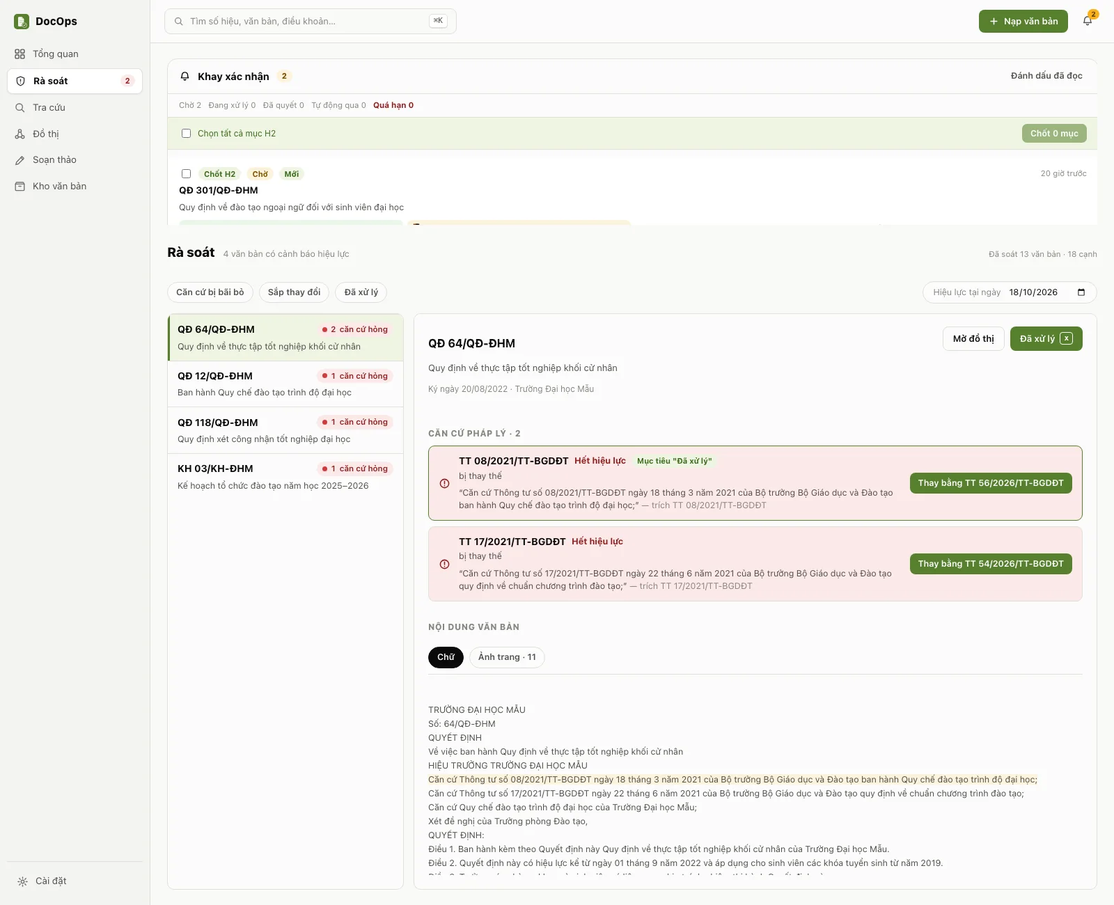
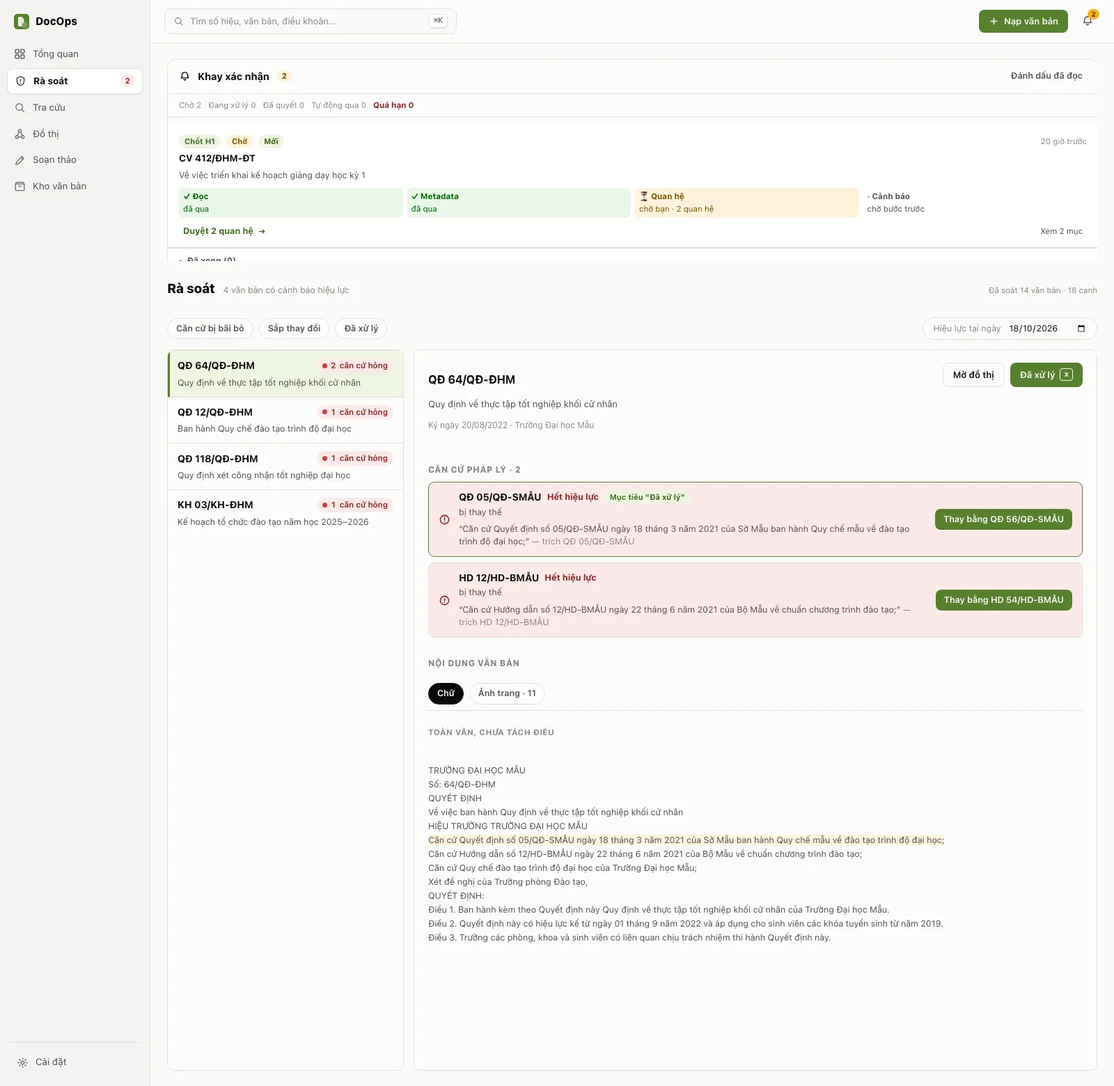
fix(huong-dan): ảnh dùng số hiệu bịa, không số hiệu thông tư thật; khay xác nhận hiện trọn một thẻ
Vòng sửa 1 của ảnh hướng dẫn (Ruling O4, phương án A):
- scripts/guide-capture: mọi căn cứ ngoài trường nay là văn bản bịa của "Sở Mẫu" (…-SMẪU) và "Bộ Mẫu" (…-BMẪU), giữ nguyên các quan hệ
  (trích, bị thay thế, hết hiệu lực) để màn vẫn cho thấy tính năng; câu trả lời AI, câu trích, bộ chữ Soạn thảo và Cài đặt đổi theo; không còn ngày
  hiệu lực của văn bản thật. Đã chụp lại cả 12 ảnh.
- content/guide vi/en: câu báo "Ảnh minh hoạ dùng dữ liệu mẫu của một trường giả định…" đứng trước ảnh đầu tiên
- tests/unit/guides.test.ts: mọi số hiệu trong dữ liệu mẫu phải kết thúc bằng mã cơ quan bịa (danh sách cho phép, 135 số hiệu), không còn tên cơ quan thật;
  câu báo đứng trước ảnh đầu; đã đo bằng đột biến (TT-BGDĐT, TT-BYT, QĐ-TTg, tên bộ thật, bỏ câu, đặt câu sau ảnh)
- ra-soat.webp: khay xác nhận là một thẻ H1 đủ trọn (dải khay bị trần 300 px của màn Rà soát nên hai thẻ chỉ ra mảnh cụt)
- capture-guide-images.mjs: đường dẫn tính từ vị trí script, ghi rõ ràng buộc với contracts/{ipc,docBody} và gateFixtures của desktop, múi giờ Asia/Ho_Chi_Minh và NOW là một thời điểm UTC

diff --git a/scripts/guide-capture/fake.ts b/scripts/guide-capture/fake.ts
@@ -13,14 +13,14 @@ export const state: { ingest: 'running' | 'idle'; agentOn: boolean; chat: 'empty
 
 // ── Warnings: which basis is dead, which documents lean on it ───────────────────────────────
 const BASES = {
-  'TT 08/2021/TT-BGDĐT': { replacedBy: 'TT 56/2026/TT-BGDĐT', reason: 'bị thay thế', fromDate: '2026-09-01' },
-  'TT 17/2021/TT-BGDĐT': { replacedBy: 'TT 54/2026/TT-BGDĐT', reason: 'bị thay thế', fromDate: '2026-09-01' },
+  'QĐ 05/QĐ-SMẪU': { replacedBy: 'QĐ 56/QĐ-SMẪU', reason: 'bị thay thế', fromDate: '2026-09-01' },
+  'HD 12/HD-BMẪU': { replacedBy: 'HD 54/HD-BMẪU', reason: 'bị thay thế', fromDate: '2026-09-01' },
 }
 const WARN: Record<string, string[]> = {
-  'QĐ 12/QĐ-ĐHM': ['TT 08/2021/TT-BGDĐT'],
-  'QĐ 64/QĐ-ĐHM': ['TT 08/2021/TT-BGDĐT', 'TT 17/2021/TT-BGDĐT'],
-  'QĐ 118/QĐ-ĐHM': ['TT 08/2021/TT-BGDĐT'],
-  'KH 03/KH-ĐHM': ['TT 17/2021/TT-BGDĐT'],
+  'QĐ 12/QĐ-ĐHM': ['QĐ 05/QĐ-SMẪU'],
+  'QĐ 64/QĐ-ĐHM': ['QĐ 05/QĐ-SMẪU', 'HD 12/HD-BMẪU'],
+  'QĐ 118/QĐ-ĐHM': ['QĐ 05/QĐ-SMẪU'],
+  'KH 03/KH-ĐHM': ['HD 12/HD-BMẪU'],
 }
 const basisTotals: Record<string, number> = { 'QĐ 12/QĐ-ĐHM': 3, 'QĐ 64/QĐ-ĐHM': 3, 'QĐ 118/QĐ-ĐHM': 2, 'KH 03/KH-ĐHM': 2 }
 
@@ -53,14 +53,14 @@ const DRAFT_TEXT = [
   'Điều 3. Quyết định này có hiệu lực kể từ ngày ký. Trưởng các phòng, khoa và các thành viên Hội đồng chịu trách nhiệm thi hành Quyết định này.',
 ].join('\n')
 const draft = {
-  id: 2, docType: 'decision', parentAgency: 'BỘ GIÁO DỤC VÀ ĐÀO TẠO', issuer: 'TRƯỜNG ĐẠI HỌC MẪU', docNumber: '', place: 'Hà Nội',
+  id: 2, docType: 'decision', parentAgency: 'BỘ MẪU', issuer: 'TRƯỜNG ĐẠI HỌC MẪU', docNumber: '', place: 'Hà Nội',
   signedDate: '2026-10-18', subject: 'thành lập Hội đồng xét công nhận tốt nghiệp đợt 2 năm 2026', issuingAuthority: 'HIỆU TRƯỞNG TRƯỜNG ĐẠI HỌC MẪU',
   addressee: null, body: docBodyOfPlainText(DRAFT_TEXT), recipients: 'Như Điều 3;\nLưu: VT, ĐT.',
   intent: 'Thành lập Hội đồng xét công nhận tốt nghiệp đợt 2 năm 2026, giao Phòng Đào tạo làm đầu mối.',
   signerAuthority: 'KT.', signerTitle: 'PHÓ HIỆU TRƯỞNG', signerName: '', signer2Title: '', signer2Name: '', updatedAt: iso(-90_000),
 }
 let ingestStartedAt = Date.now() - 48_000
-const norm = (t: string) => t.normalize('NFD').replace(/[\u0300-\u036f]/g, '').replace(/đ/g, 'd').toLowerCase()
+const norm = (t: string) => t.toLowerCase().normalize('NFD').replace(/[\u0300-\u036f]/g, '').replace(/đ/g, 'd')
 const hit = (snippet: string, word: string): Array<[number, number]> => {
   const out: Array<[number, number]> = []
   const s = norm(snippet), w = norm(word)
@@ -74,20 +74,20 @@ function passageOf(docNumber: string, snippet: string, word: string, page: numbe
 }
 function searchFor(q: string) {
   const n = norm(q)
-  if (n.includes('08/2021')) {
-    const s = 'Căn cứ Thông tư số 08/2021/TT-BGDĐT ngày 18 tháng 3 năm 2021 của Bộ trưởng Bộ Giáo dục và Đào tạo ban hành Quy chế đào tạo trình độ đại học;'
+  if (n.includes('05/qd-smau')) {
+    const s = 'Căn cứ Quyết định số 05/QĐ-SMẪU ngày 18 tháng 3 năm 2021 của Sở Mẫu ban hành Quy chế mẫu về đào tạo trình độ đại học;'
     return {
-      documents: [{ docNumber: 'TT 08/2021/TT-BGDĐT', subject: 'Ban hành Quy chế đào tạo trình độ đại học' }],
-      legalBases: [{ docNumber: 'TT 08/2021/TT-BGDĐT', citingCount: 3 }],
+      documents: [{ docNumber: 'QĐ 05/QĐ-SMẪU', subject: 'Quy chế mẫu về đào tạo trình độ đại học' }],
+      legalBases: [{ docNumber: 'QĐ 05/QĐ-SMẪU', citingCount: 3 }],
       articles: [
-        { docNumber: 'QĐ 12/QĐ-ĐHM', articleNo: 7, title: 'Tổ chức đào tạo theo tín chỉ', text: 'Việc tổ chức đào tạo theo hệ thống tín chỉ thực hiện theo quy định tại Thông tư số 08/2021/TT-BGDĐT và hướng dẫn của Nhà trường.' },
-        { docNumber: 'QĐ 118/QĐ-ĐHM', articleNo: 2, title: 'Cơ sở xét công nhận tốt nghiệp', text: 'Việc xét công nhận tốt nghiệp căn cứ Điều 31 của Thông tư số 08/2021/TT-BGDĐT.' },
+        { docNumber: 'QĐ 12/QĐ-ĐHM', articleNo: 7, title: 'Tổ chức đào tạo theo tín chỉ', text: 'Việc tổ chức đào tạo theo hệ thống tín chỉ thực hiện theo quy định tại Quyết định số 05/QĐ-SMẪU và hướng dẫn của Nhà trường.' },
+        { docNumber: 'QĐ 118/QĐ-ĐHM', articleNo: 2, title: 'Cơ sở xét công nhận tốt nghiệp', text: 'Việc xét công nhận tốt nghiệp căn cứ Điều 31 của Quyết định số 05/QĐ-SMẪU.' },
       ],
       elapsedMs: 7,
       passages: [
-        passageOf('QĐ 12/QĐ-ĐHM', s, '08/2021', 1, 'Căn cứ', 101),
-        passageOf('QĐ 64/QĐ-ĐHM', s, '08/2021', 1, 'Căn cứ', 202),
-        passageOf('QĐ 118/QĐ-ĐHM', s, '08/2021', 1, 'Căn cứ', 303),
+        passageOf('QĐ 12/QĐ-ĐHM', s, '05/QĐ-SMẪU', 1, 'Căn cứ', 101),
+        passageOf('QĐ 64/QĐ-ĐHM', s, '05/QĐ-SMẪU', 1, 'Căn cứ', 202),
+        passageOf('QĐ 118/QĐ-ĐHM', s, '05/QĐ-SMẪU', 1, 'Căn cứ', 303),
       ],
       passagesRelaxed: false, indexing: null,
     }
@@ -103,7 +103,7 @@ function searchFor(q: string) {
       legalBases: [],
       articles: [
         { docNumber: 'QĐ 118/QĐ-ĐHM', articleNo: 3, title: 'Điều kiện xét công nhận tốt nghiệp', text: s1 },
-        { docNumber: 'QĐ 12/QĐ-ĐHM', articleNo: 24, title: 'Điều kiện tốt nghiệp và cấp bằng', text: 'Sinh viên được xét tốt nghiệp khi đáp ứng các điều kiện của Quy chế này và quy định của Bộ Giáo dục và Đào tạo.' },
+        { docNumber: 'QĐ 12/QĐ-ĐHM', articleNo: 24, title: 'Điều kiện tốt nghiệp và cấp bằng', text: 'Sinh viên được xét tốt nghiệp khi đáp ứng các điều kiện của Quy chế này và quy định của Bộ Mẫu.' },
       ],
       elapsedMs: 9,
       passages: [
@@ -124,7 +124,7 @@ const turnBase = { attached: [], actions: [], notFound: [], droppedCitations: []
 const chatTurns = () => state.chat === 'empty' ? [] : [
   { ...turnBase, id: 1, seq: 1, kind: 'user', text: 'Quy định về điều kiện xét tốt nghiệp nằm ở văn bản nào, Điều mấy?', citations: [] },
   { ...turnBase, id: 2, seq: 2, kind: 'assistant',
-    text: 'Điều kiện xét công nhận tốt nghiệp nằm ở QĐ 118/QĐ-ĐHM, Điều 3 [ID:311]: sinh viên phải tích lũy đủ số tín chỉ của chương trình, đạt chuẩn đầu ra ngoại ngữ và không đang bị kỷ luật. Quy chế đào tạo QĐ 12/QĐ-ĐHM, Điều 24 [ID:124] quy định chung về tốt nghiệp và cấp bằng.\n\nCả hai văn bản đang dẫn Thông tư 08/2021/TT-BGDĐT, căn cứ này đã được thay bằng TT 56/2026/TT-BGDĐT, nên cần rà soát lại.',
+    text: 'Điều kiện xét công nhận tốt nghiệp nằm ở QĐ 118/QĐ-ĐHM, Điều 3 [ID:311]: sinh viên phải tích lũy đủ số tín chỉ của chương trình, đạt chuẩn đầu ra ngoại ngữ và không đang bị kỷ luật. Quy chế đào tạo QĐ 12/QĐ-ĐHM, Điều 24 [ID:124] quy định chung về tốt nghiệp và cấp bằng.\n\nCả hai văn bản đang dẫn Quyết định 05/QĐ-SMẪU, căn cứ này đã được thay bằng QĐ 56/QĐ-SMẪU, nên cần rà soát lại.',
     citations: [
       { docNumber: 'QĐ 118/QĐ-ĐHM', articleNo: 3, passageId: 311, page: 2, label: 'QĐ 118/QĐ-ĐHM' },
       { docNumber: 'QĐ 12/QĐ-ĐHM', articleNo: 24, passageId: 124, page: 11, label: 'QĐ 12/QĐ-ĐHM' },
@@ -195,12 +195,12 @@ export const handlers: Record<string, Handler> = {
       awaitingConfirmation: 2, events, risks,
       byYear: Object.entries(byYear).map(([year, count]) => ({ year: Number(year), count })).sort((a, b) => a.year - b.year),
       byType: Object.entries(byType).map(([docType, count]) => ({ docType, count })).sort((a, b) => b.count - a.count),
-      articleCount: 164, edgeCount: EDGES.length, reviewedCount: 6, unanalyzedCount: 2,
-      inspected: { documents: DOCS.length - 2, edges: EDGES.length }, lastAnalyzedAt: iso(-3 * 3600_000),
+      articleCount: 164, edgeCount: EDGES.length, reviewedCount: 6, unanalyzedCount: 1,
+      inspected: { documents: DOCS.length - 1, edges: EDGES.length }, lastAnalyzedAt: iso(-3 * 3600_000),
     })
   },
 
-  getUnitInfo: () => ok({ parentAgency: 'BỘ GIÁO DỤC VÀ ĐÀO TẠO', issuer: 'TRƯỜNG ĐẠI HỌC MẪU', place: 'Hà Nội', signerAuthority: 'KT.', signerTitle: 'PHÓ HIỆU TRƯỞNG', signerName: '' }),
+  getUnitInfo: () => ok({ parentAgency: 'BỘ MẪU', issuer: 'TRƯỜNG ĐẠI HỌC MẪU', place: 'Hà Nội', signerAuthority: 'KT.', signerTitle: 'PHÓ HIỆU TRƯỞNG', signerName: '' }),
   getKeyDevices: () => ok({
     status: 'active', unitName: UNIT, devicesInUse: 3, maxDevices: 10,
     devices: [
@@ -234,13 +234,16 @@ export const handlers: Record<string, Handler> = {
       }))
       return { docNumber: n, subject: d.subject, signedOn: d.signedOn, issuer: d.issuer, unhandledCount: warnings.length, warnings }
     })
-    return ok({ rows, inspected: { documents: DOCS.length - 2, edges: EDGES.length } })
+    return ok({ rows, inspected: { documents: DOCS.length - 1, edges: EDGES.length } })
   },
+  // ONE card with two relations to approve (H1): the review band has a ceiling (20% of the column, 300 px at most) and a card of an H2/H4
+  // document plus the H2 "select all" bar does not fit under it, so a second card would only ever show as a clipped sliver.
   getInboxByDocument: () => ok(inboxByDocumentReply([
-    journeyDocument({ documentId: 'd-qd301', docNumberLabel: 'QĐ 301/QĐ-ĐHM', subject: DOCS.find((d) => d.id === 'd-qd301')!.subject,
-      items: [inboxItem({ subjectId: 'd-qd301', gateCode: 'H2', summary: 'Duyệt vào kho — QĐ 301/QĐ-ĐHM', fieldsToDecide: 3, documentId: 'd-qd301', createdAt: iso(-20 * 3600_000) })] }),
     journeyDocument({ documentId: 'd-cv412', docNumberLabel: 'CV 412/ĐHM-ĐT', subject: DOCS.find((d) => d.id === 'd-cv412')!.subject,
-      items: [inboxItem({ subjectId: 'd-cv412', gateCode: 'H2', summary: 'Duyệt vào kho — CV 412/ĐHM-ĐT', fieldsToDecide: 4, documentId: 'd-cv412', createdAt: iso(-20 * 3600_000) })] }),
+      items: [
+        inboxItem({ subjectId: 'qh:d-cv412:0', gateCode: 'H1', summary: 'Quan hệ — CV 412/ĐHM-ĐT', fieldsToDecide: 1, documentId: 'd-cv412', createdAt: iso(-20 * 3600_000) }),
+        inboxItem({ subjectId: 'qh:d-cv412:1', gateCode: 'H1', summary: 'Quan hệ — CV 412/ĐHM-ĐT', fieldsToDecide: 1, documentId: 'd-cv412', createdAt: iso(-20 * 3600_000) }),
+      ] }),
   ], { warnings: [] }).data),
   getDocumentContent: (p: { docNumber?: string; documentId?: string }) => {
     const d = DOCS.find((x) => x.docNumber === p.docNumber || x.id === p.documentId)

diff --git a/scripts/guide-capture/world.ts b/scripts/guide-capture/world.ts
@@ -31,30 +31,30 @@ export const DOCS: Doc[] = [
   { id: 'd-hd09', docNumber: 'HD 09/HD-ĐHM', subject: 'Hướng dẫn đánh giá kết quả rèn luyện của sinh viên', docType: 'HD', signedOn: '2024-09-05', effectiveFrom: '2024-09-05', issuer: U, pages: 6, status: 'complete', ingestedAt: '2026-10-14T14:12:00', outEdges: 1, inEdges: 0, readMode: 'lop_chu', relationsState: 'extracted' },
   { id: 'd-kh03', docNumber: 'KH 03/KH-ĐHM', subject: 'Kế hoạch tổ chức đào tạo năm học 2025–2026', docType: 'KH', signedOn: '2025-08-12', effectiveFrom: '2025-08-12', issuer: U, pages: 14, status: 'complete', ingestedAt: '2026-10-15T10:30:00', outEdges: 2, inEdges: 0, readMode: 'lop_chu', relationsState: 'extracted' },
   { id: 'd-tb88', docNumber: 'TB 88/TB-ĐHM', subject: 'Thông báo lịch đăng ký học phần học kỳ 1 năm học 2026–2027', docType: 'TB', signedOn: '2026-08-04', effectiveFrom: '2026-08-04', issuer: U, pages: 2, status: 'complete', ingestedAt: '2026-10-15T10:41:00', outEdges: 1, inEdges: 0, readMode: 'lop_chu', relationsState: 'extracted' },
-  { id: 'd-qd301', docNumber: 'QĐ 301/QĐ-ĐHM', subject: 'Quy định về đào tạo ngoại ngữ đối với sinh viên đại học', docType: 'QĐ', signedOn: '2026-09-22', effectiveFrom: '2026-10-01', issuer: U, pages: 7, status: 'awaiting_confirmation', ingestedAt: '2026-10-17T15:20:00', outEdges: 0, inEdges: 0, readMode: 'ocr', relationsState: 'pending', awaitingGate: 'H2' },
-  { id: 'd-cv412', docNumber: 'CV 412/ĐHM-ĐT', subject: 'Về việc triển khai kế hoạch giảng dạy học kỳ 1', docType: 'CV', signedOn: '2026-09-08', effectiveFrom: '2026-09-08', issuer: U, pages: 3, status: 'awaiting_confirmation', ingestedAt: '2026-10-17T15:26:00', outEdges: 0, inEdges: 0, readMode: 'ocr', relationsState: 'pending', awaitingGate: 'H2' },
-  // National documents that are IN the store.
-  { id: 'd-tt08', docNumber: 'TT 08/2021/TT-BGDĐT', subject: 'Ban hành Quy chế đào tạo trình độ đại học', docType: 'TT', signedOn: '2021-03-18', effectiveFrom: '2021-05-05', issuer: 'Bộ Giáo dục và Đào tạo', pages: 21, status: 'complete', ingestedAt: '2026-10-11T16:02:00', outEdges: 0, inEdges: 4, readMode: 'lop_chu', relationsState: 'extracted' },
-  { id: 'd-tt17', docNumber: 'TT 17/2021/TT-BGDĐT', subject: 'Quy định về chuẩn chương trình đào tạo; xây dựng, thẩm định và ban hành chương trình đào tạo các trình độ của giáo dục đại học', docType: 'TT', signedOn: '2021-06-22', effectiveFrom: '2021-08-06', issuer: 'Bộ Giáo dục và Đào tạo', pages: 28, status: 'complete', ingestedAt: '2026-10-11T16:10:00', outEdges: 0, inEdges: 2, readMode: 'lop_chu', relationsState: 'extracted' },
-  { id: 'd-nd99', docNumber: 'NĐ 99/2019/NĐ-CP', subject: 'Quy định chi tiết và hướng dẫn thi hành một số điều của Luật sửa đổi, bổ sung một số điều của Luật Giáo dục đại học', docType: 'NĐ', signedOn: '2019-12-30', effectiveFrom: '2019-12-30', issuer: 'Chính phủ', pages: 32, status: 'complete', ingestedAt: '2026-10-11T16:20:00', outEdges: 0, inEdges: 3, readMode: 'lop_chu', relationsState: 'extracted' },
-  { id: 'd-nd30', docNumber: 'NĐ 30/2020/NĐ-CP', subject: 'Về công tác văn thư', docType: 'NĐ', signedOn: '2020-03-05', effectiveFrom: '2020-03-05', issuer: 'Chính phủ', pages: 19, status: 'complete', ingestedAt: '2026-10-11T16:31:00', outEdges: 0, inEdges: 2, readMode: 'lop_chu', relationsState: 'extracted' },
+  { id: 'd-qd301', docNumber: 'QĐ 301/QĐ-ĐHM', subject: 'Quy định về đào tạo ngoại ngữ đối với sinh viên đại học', docType: 'QĐ', signedOn: '2026-09-22', effectiveFrom: '2026-10-01', issuer: U, pages: 7, status: 'complete', ingestedAt: '2026-10-17T15:20:00', outEdges: 0, inEdges: 0, readMode: 'ocr', relationsState: 'extracted' },
+  { id: 'd-cv412', docNumber: 'CV 412/ĐHM-ĐT', subject: 'Về việc triển khai kế hoạch giảng dạy học kỳ 1', docType: 'CV', signedOn: '2026-09-08', effectiveFrom: '2026-09-08', issuer: U, pages: 3, status: 'awaiting_confirmation', ingestedAt: '2026-10-17T15:26:00', outEdges: 0, inEdges: 0, readMode: 'ocr', relationsState: 'pending' },
+  // External bases that are IN the store. INVENTED: a made-up "Sở Mẫu" and "Bộ Mẫu" issue them, with numbers no real body uses.
+  { id: 'd-qd05', docNumber: 'QĐ 05/QĐ-SMẪU', subject: 'Quy chế mẫu về đào tạo trình độ đại học', docType: 'QĐ', signedOn: '2021-03-18', effectiveFrom: '2021-05-05', issuer: 'Sở Mẫu', pages: 21, status: 'complete', ingestedAt: '2026-10-11T16:02:00', outEdges: 0, inEdges: 4, readMode: 'lop_chu', relationsState: 'extracted' },
+  { id: 'd-hd12', docNumber: 'HD 12/HD-BMẪU', subject: 'Hướng dẫn mẫu về chuẩn chương trình đào tạo', docType: 'HD', signedOn: '2021-06-22', effectiveFrom: '2021-08-06', issuer: 'Bộ Mẫu', pages: 28, status: 'complete', ingestedAt: '2026-10-11T16:10:00', outEdges: 0, inEdges: 2, readMode: 'lop_chu', relationsState: 'extracted' },
+  { id: 'd-qd09', docNumber: 'QĐ 09/QĐ-SMẪU', subject: 'Quy định mẫu về tổ chức đào tạo trình độ đại học', docType: 'QĐ', signedOn: '2019-12-30', effectiveFrom: '2019-12-30', issuer: 'Sở Mẫu', pages: 32, status: 'complete', ingestedAt: '2026-10-11T16:20:00', outEdges: 0, inEdges: 3, readMode: 'lop_chu', relationsState: 'extracted' },
+  { id: 'd-hd03', docNumber: 'HD 03/HD-BMẪU', subject: 'Hướng dẫn mẫu về công tác văn thư', docType: 'HD', signedOn: '2020-03-05', effectiveFrom: '2020-03-05', issuer: 'Bộ Mẫu', pages: 19, status: 'complete', ingestedAt: '2026-10-11T16:31:00', outEdges: 0, inEdges: 2, readMode: 'lop_chu', relationsState: 'extracted' },
 ]
 
 /** The citation sentences the "Căn cứ" lines of the own documents carry (the edges' `source_sentence`). */
 export const CITES: Record<string, Array<{ to: string; sentence: string }>> = {
   'QĐ 12/QĐ-ĐHM': [
-    { to: 'TT 08/2021/TT-BGDĐT', sentence: 'Căn cứ Thông tư số 08/2021/TT-BGDĐT ngày 18 tháng 3 năm 2021 của Bộ trưởng Bộ Giáo dục và Đào tạo ban hành Quy chế đào tạo trình độ đại học;' },
-    { to: 'NĐ 99/2019/NĐ-CP', sentence: 'Căn cứ Nghị định số 99/2019/NĐ-CP ngày 30 tháng 12 năm 2019 của Chính phủ quy định chi tiết và hướng dẫn thi hành một số điều của Luật sửa đổi, bổ sung một số điều của Luật Giáo dục đại học;' },
+    { to: 'QĐ 05/QĐ-SMẪU', sentence: 'Căn cứ Quyết định số 05/QĐ-SMẪU ngày 18 tháng 3 năm 2021 của Sở Mẫu ban hành Quy chế mẫu về đào tạo trình độ đại học;' },
+    { to: 'QĐ 09/QĐ-SMẪU', sentence: 'Căn cứ Quyết định số 09/QĐ-SMẪU ngày 30 tháng 12 năm 2019 của Sở Mẫu về tổ chức đào tạo trình độ đại học;' },
   ],
   'QĐ 64/QĐ-ĐHM': [
-    { to: 'TT 08/2021/TT-BGDĐT', sentence: 'Căn cứ Thông tư số 08/2021/TT-BGDĐT ngày 18 tháng 3 năm 2021 của Bộ trưởng Bộ Giáo dục và Đào tạo ban hành Quy chế đào tạo trình độ đại học;' },
-    { to: 'TT 17/2021/TT-BGDĐT', sentence: 'Căn cứ Thông tư số 17/2021/TT-BGDĐT ngày 22 tháng 6 năm 2021 của Bộ trưởng Bộ Giáo dục và Đào tạo quy định về chuẩn chương trình đào tạo;' },
+    { to: 'QĐ 05/QĐ-SMẪU', sentence: 'Căn cứ Quyết định số 05/QĐ-SMẪU ngày 18 tháng 3 năm 2021 của Sở Mẫu ban hành Quy chế mẫu về đào tạo trình độ đại học;' },
+    { to: 'HD 12/HD-BMẪU', sentence: 'Căn cứ Hướng dẫn số 12/HD-BMẪU ngày 22 tháng 6 năm 2021 của Bộ Mẫu về chuẩn chương trình đào tạo;' },
   ],
   'QĐ 118/QĐ-ĐHM': [
-    { to: 'TT 08/2021/TT-BGDĐT', sentence: 'Căn cứ Thông tư số 08/2021/TT-BGDĐT ngày 18 tháng 3 năm 2021 của Bộ trưởng Bộ Giáo dục và Đào tạo ban hành Quy chế đào tạo trình độ đại học;' },
+    { to: 'QĐ 05/QĐ-SMẪU', sentence: 'Căn cứ Quyết định số 05/QĐ-SMẪU ngày 18 tháng 3 năm 2021 của Sở Mẫu ban hành Quy chế mẫu về đào tạo trình độ đại học;' },
   ],
   'KH 03/KH-ĐHM': [
-    { to: 'TT 17/2021/TT-BGDĐT', sentence: 'Căn cứ Thông tư số 17/2021/TT-BGDĐT ngày 22 tháng 6 năm 2021 của Bộ trưởng Bộ Giáo dục và Đào tạo quy định về chuẩn chương trình đào tạo;' },
+    { to: 'HD 12/HD-BMẪU', sentence: 'Căn cứ Hướng dẫn số 12/HD-BMẪU ngày 22 tháng 6 năm 2021 của Bộ Mẫu về chuẩn chương trình đào tạo;' },
   ],
 }
 
@@ -77,21 +77,21 @@ export const BODY: Record<string, string> = {
 
 /** Citation edges (from cites to). `to` may be a document that is NOT in the store. */
 export const EDGES: Array<[string, string]> = [
-  ['QĐ 12/QĐ-ĐHM', 'TT 08/2021/TT-BGDĐT'], ['QĐ 12/QĐ-ĐHM', 'NĐ 99/2019/NĐ-CP'], ['QĐ 12/QĐ-ĐHM', 'TT 17/2021/TT-BGDĐT'],
-  ['QĐ 64/QĐ-ĐHM', 'TT 08/2021/TT-BGDĐT'], ['QĐ 64/QĐ-ĐHM', 'TT 17/2021/TT-BGDĐT'], ['QĐ 64/QĐ-ĐHM', 'QĐ 12/QĐ-ĐHM'],
-  ['QĐ 118/QĐ-ĐHM', 'TT 08/2021/TT-BGDĐT'], ['QĐ 118/QĐ-ĐHM', 'QĐ 12/QĐ-ĐHM'],
-  ['QĐ 205/QĐ-ĐHM', 'NĐ 30/2020/NĐ-CP'], ['QĐ 205/QĐ-ĐHM', 'Luật 01/2011/QH13'],
-  ['QĐ 41/QĐ-ĐHM', 'NĐ 99/2019/NĐ-CP'], ['QĐ 41/QĐ-ĐHM', 'Luật 34/2018/QH14'],
-  ['QĐ 77/QĐ-ĐHM', 'NĐ 81/2021/NĐ-CP'], ['QĐ 77/QĐ-ĐHM', 'QĐ 12/QĐ-ĐHM'],
+  ['QĐ 12/QĐ-ĐHM', 'QĐ 05/QĐ-SMẪU'], ['QĐ 12/QĐ-ĐHM', 'QĐ 09/QĐ-SMẪU'], ['QĐ 12/QĐ-ĐHM', 'HD 12/HD-BMẪU'],
+  ['QĐ 64/QĐ-ĐHM', 'QĐ 05/QĐ-SMẪU'], ['QĐ 64/QĐ-ĐHM', 'HD 12/HD-BMẪU'], ['QĐ 64/QĐ-ĐHM', 'QĐ 12/QĐ-ĐHM'],
+  ['QĐ 118/QĐ-ĐHM', 'QĐ 05/QĐ-SMẪU'], ['QĐ 118/QĐ-ĐHM', 'QĐ 12/QĐ-ĐHM'],
+  ['QĐ 205/QĐ-ĐHM', 'HD 03/HD-BMẪU'], ['QĐ 205/QĐ-ĐHM', 'QĐ 02/QĐ-SMẪU'],
+  ['QĐ 41/QĐ-ĐHM', 'QĐ 09/QĐ-SMẪU'], ['QĐ 41/QĐ-ĐHM', 'HD 07/HD-BMẪU'],
+  ['QĐ 77/QĐ-ĐHM', 'QĐ 21/QĐ-SMẪU'], ['QĐ 77/QĐ-ĐHM', 'QĐ 12/QĐ-ĐHM'],
   ['HD 09/HD-ĐHM', 'QĐ 12/QĐ-ĐHM'],
-  ['KH 03/KH-ĐHM', 'TT 17/2021/TT-BGDĐT'], ['KH 03/KH-ĐHM', 'QĐ 41/QĐ-ĐHM'],
+  ['KH 03/KH-ĐHM', 'HD 12/HD-BMẪU'], ['KH 03/KH-ĐHM', 'QĐ 41/QĐ-ĐHM'],
   ['TB 88/TB-ĐHM', 'KH 03/KH-ĐHM'],
 ]
 /** Cited but never loaded: the graph draws them as "outside the store". */
 export const OUTSIDE: Record<string, string> = {
-  'Luật 01/2011/QH13': 'Luật Lưu trữ',
-  'Luật 34/2018/QH14': 'Luật sửa đổi, bổ sung một số điều của Luật Giáo dục đại học',
-  'NĐ 81/2021/NĐ-CP': 'Về cơ chế thu, quản lý học phí đối với cơ sở giáo dục thuộc hệ thống giáo dục quốc dân',
+  'QĐ 02/QĐ-SMẪU': 'Quy định mẫu về lưu trữ tài liệu',
+  'HD 07/HD-BMẪU': 'Hướng dẫn mẫu về tuyển sinh đại học',
+  'QĐ 21/QĐ-SMẪU': 'Quy định mẫu về thu và quản lý học phí',
 }
 for (const d of DOCS) {
   d.outEdges = EDGES.filter(([f]) => f === d.docNumber).length

diff --git a/tests/unit/guides.test.ts b/tests/unit/guides.test.ts
@@ -184,6 +184,30 @@ describe('user guide', () => {
     expect(sizes.reduce((sum, [, bytes]) => sum + bytes, 0)).toBeLessThanOrEqual(2 * 1024 * 1024)
   })
 
+  // Trang công khai, nên mọi số hiệu trong ảnh phải BỊA: ảnh mà ghi "TT 08/2021/TT-BGDĐT bị thay bằng …" thì người đọc hiểu là một khẳng định
+  // về luật thật. Chặn bằng danh sách cho phép (số hiệu phải kết thúc bằng mã cơ quan bịa: ĐHM = Trường Đại học Mẫu, SMẪU = Sở Mẫu,
+  // BMẪU = Bộ Mẫu) thay vì danh sách cấm, để một hậu tố thật lạ (…-BYT, …-BTC) cũng đỏ.
+  test('the screenshot harness invents every document number: each ends in a made-up issuer code', () => {
+    const FICTIONAL = /(?:^|-)(?:ĐHM|SMẪU|BMẪU)(?:-|$)/u
+    const numbers = ['world.ts', 'fake.ts'].flatMap((file) =>
+      [...readFileSync(`scripts/guide-capture/${file}`, 'utf8').matchAll(/(?<![\w/])\d{1,4}\/(?:\d{4}\/)?(\p{Lu}[\p{L}-]*)/gu)].map((m) => [file, m[0], m[1]!] as const))
+    expect(numbers.length, 'the pattern must still see the document numbers').toBeGreaterThan(30)
+    for (const [file, whole, code] of numbers) expect(FICTIONAL.test(code), `${file}: "${whole}"`).toBe(true)
+    // Và không còn chữ chỉ cơ quan thật, kể cả khi số hiệu viết kiểu khác.
+    const all = ['world.ts', 'fake.ts'].map((file) => readFileSync(`scripts/guide-capture/${file}`, 'utf8')).join('\n')
+    expect(all).not.toMatch(/BGDĐT|NĐ-CP|NQ-CP|QĐ-TTg|CT-TTg|\/QH\d|UBND|Bộ Giáo dục|Chính phủ|Luật |ĐHSP/u)
+  })
+
+  // Câu báo "ảnh là dữ liệu mẫu" phải đứng TRƯỚC ảnh đầu tiên, cả hai ngôn ngữ.
+  test.each([
+    ['vi', 'Ảnh minh hoạ dùng dữ liệu mẫu của một trường giả định; số hiệu, quan hệ và ngày trong ảnh chỉ để minh hoạ.'],
+    ['en', 'The screenshots use sample data from a fictional university; the document numbers, relations and dates in them are for illustration only.'],
+  ] as const)('%s: the sample-data notice stands before the first screenshot', (locale, sentence) => {
+    const src = guideSource(locale)
+    expect(src.indexOf(sentence), 'notice missing').toBeGreaterThan(-1)
+    expect(src.indexOf(sentence)).toBeLessThan(src.indexOf('<img '))
+  })
+
   // Mẫu ảnh không lọt tên người thật hay mã cán bộ: nguồn dữ liệu mẫu của bộ chụp là một trường tưởng tượng.
   test('the screenshot harness carries only the invented unit, no real signer', () => {
     const world = readFileSync('scripts/guide-capture/world.ts', 'utf8')
